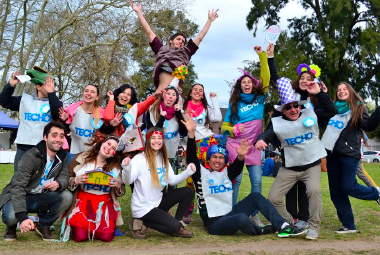
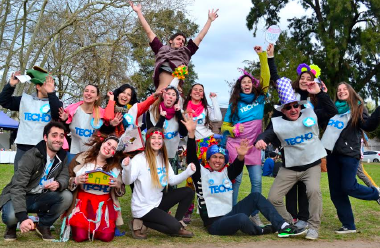
TEC-227. Recorte a imagen de eventos especiales para que tenga el mismo tamaño que las otras. Cambio de estilos en botones del home.

diff --git a/resources/views/home.blade.php b/resources/views/home.blade.php
@@ -43,7 +43,7 @@
                                     @endforeach
                                 </ul>
                             </div>
-                            <a href="/actividades?categoria={{ $categoria->id }}" class="btn techo-btn-azul">{{ $categoria->nombre == "Eventos Especiales" ? "Ver eventos" : "Quiero saber más"}}</a>
+                            <a href="/actividades?categoria={{ $categoria->id }}" class="btn btn-primary">{{ $categoria->nombre == "Eventos Especiales" ? "Ver eventos" : "Quiero saber más"}}</a>
                         </div>
                     </div>
                 @php($i++)
